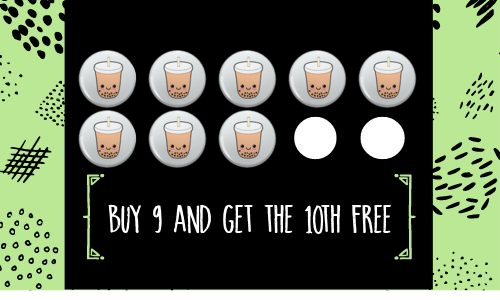
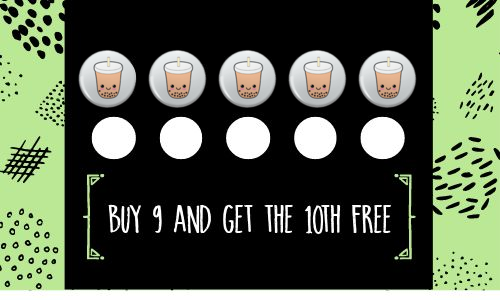
s

Changed region(s): [[0.15, 0.36, 0.57, 0.57]]

diff --git a/stamp_card.py b/stamp_card.py
@@ -26,5 +26,5 @@ def generate_stamp_card(stamp_count):
     base_image.save("updated_stampCard.png")
 
 # Example: Update stamp count based on a variable
-current_stamp_count = 8
+current_stamp_count = 5
 generate_stamp_card(current_stamp_count)
